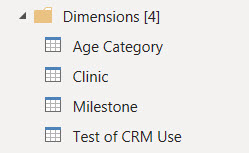
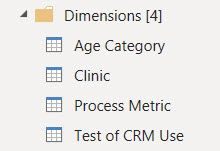
Data model improvements
Been talking to the duck

diff --git a/_layouts/default.html b/_layouts/default.html
@@ -20,7 +20,7 @@
             <div class="tocitem"><a href="#parameters-and-functions">Parameters and Functions</a></div> 
             <div class="tocitem"><a href="#data-loads">Data Loads</a></div>
             <div class="tocitem"><a href="#referral-table">Referral Table</a></div> 
-            <div class="tocitem"><a href="#referral-milestone-table">Referral Milestone Table</a></div> 
+            <div class="tocitem"><a href="#processing-time-table">Processing Time Table</a></div> 
             <div class="tocitem"><a href="#direct-secure-message-table">Direct Secure Message Table</a></div> 
             <div class="tocitem"><a href="#standard-calendar-table">Standard Calendar Table</a></div> 
             <div class="tocitem"><a href="#dimension-tables">Dimension Tables</a></div> 

diff --git a/README.md b/README.md
@@ -40,7 +40,7 @@ The **data_date** parameter is used to calculate the number of days that a refer
 The **data_path** parameter provides a single, convenient location to set the directory where the report can find the data files to load.  The *Source* step of each source table references this parameter along with one of the other parameters containing the name of the file to load.    
 
 ![Contents of the functions group](images/functions_group.jpg)    
-This report makes use of the **GetAgeCategory** function to template a column transform that is used multiple times.  It assigns a distribution grouping to the number of days leading up to a process milestone.    
+This Power Query ELT makes use of the **GetAgeCategory** function to template a column transform.  The function assigns a distribution grouping bin to the number of days leading up to a process milestone.  The function places transformation logic in an easy to find location.  It also templates a transformation that may potentially be used more than once.  Changes can be made in a single place.    
 
 ```
 = (Days as any) as any => 
@@ -54,7 +54,7 @@ let
 in
     Source
 ```    
-The number of days is the parameter and the return value is the grouping category.      
+The number of days is the parameter and the return value is the grouping bin name.    
 
 ### Data Loads
 ![Contents of the data loads group](images/data_loads_group.jpg)    
@@ -74,17 +74,13 @@ Adding calculated columns in Power Query balances out the overall time spent wai
 The number of days between milestones are also added to the table as calculated columns.  These columns are used to age referrals from the date when they are sent.  These ages are used to calculate median process timings. 
 
 ![Referral table transforms #3](images/referral_steps_3.jpg)    
-Finally the query uses the **GetAgeCategory** function to assign a category to the number of days a referral has been on hold or pending reschedule.  This creates two, separate dimension columns for each type of age category, on hold or pending reschedule.    
+Along the lines of shifting some processing work to the data refresh, the query calculates a set of extended date columns used by DAX measures in the report.  These date manipulations are present in most of the measures that are visualized.  There are useful functions and techniques in DAX to calculate time phased measures without these calculated date columns, but this would come at the cost of more complicated DAX measures and more processing when slicer values change or a new page is selected.    
 
-These two dimension columns are related in that they are a sub-class of age categories.  The **Referral Milestone** table that follows is an example where a pivoted transform can model these two, separate sub-classes of age category as the more general class of **Age Category** in a single dimension table and a single fact.   
+### Processing Time Table  
+![Processing Time query steps](images/processing_time_steps.jpg)    
+**Processing Time** is a pivoted transformation of the referral process metrics into a vertical fact table rather than a horizontal list of milestone attributes.  Doing so grants the ability to filter visuals on specific metrics and apply the same aggregation across one or more selected metrics.  Using this data structure also simplifies the use of bar charts to place different metrics side by side for comparison.    
 
-However, the measures and visualizations for days on hold and days pending reschedule are never in the same chart.  Treating these age categories as columns of a referral is convenient and also intuitive for consumers of the data model.  This ELT creates both a wide, less normalized reporting table in **Referral** and a step towards a proper star schema with milestone as a dimension in **Referral Milestone**.    
-
-### Referral Milestone Table  
-![Referral Milestone query steps](images/referral_milestone_steps.jpg)    
-**Referral Milestone** is a pivoted transformation of the referral process milestones into a vertical fact table rather than a horizontal list of milestone attributes.  Doing so grants the ability to filter visuals on specific milestones and apply the same measure across one or more selected milestones.  Using this data structure also simplifies the use of bar charts to place different milestones side by side for comparison.    
-
-Pivoting a horizontal list of milestone columns into a vertical fact table results in a simplified data model in that there are fewer dimensions playing a single role.  There is a single relationship between the dimension table and the fact table instead of multiple sub-class dimensions of age category.    
+Pivoting a horizontal list of milestone columns into a vertical fact table results in a simplified data model in that there are fewer dimensions playing a single role.  There is a single relationship between the dimension table and the fact table instead of multiple sub-classes of age category for each process metric.    
 
 The transforms:
 1. Reference the source **Referrals** table
@@ -108,7 +104,7 @@ The queries in the Dimensions group fill tables representing the pivotal dimensi
 
 Three dimensions are sourced directly from the report definition.  They are entered into the Power Query and stored as JSON: 
 - **Age Category** is a table of bins used to group referrals in timing distributions.  
-- **Milestone** is a table of referral process milestones.  
+- **Process Metric** is a table of referral process milestones and other time calculations used to monitor performance.  
 - **Test of CRM Use** is a table of measure names used to test how often a clinic uses their Clinic Referral Management system versus only using the clinic schedule book for new patients.    
 
 The **Clinic** dimension is sourced from the **Referral** table and represents the list of unique clinic names where referrals are sent.    
@@ -124,7 +120,7 @@ A DAX measure surfaces data for selected measures using a SWITCH statement on th
 
 ## Power BI Data Model 
 <a href="images/data_model.jpg"><img alt="Data model ERD" src="images/data_model.jpg?raw=true"/></a> 
-Three tables host measures that are surfaced in report visualizations.  The **Referral**, **Referral Milestone**, and **Direct Secure Message** tables contain fact values.    
+Three tables host measures that are surfaced in report visualizations.  The **Referral**, **Processing Time**, and **Direct Secure Message** tables contain fact values.    
 
 Specific data dimensions are persisted into tables due to their values existing in multiple fact tables, or their values are sorted by a column other than their description.  
 
@@ -132,11 +128,8 @@ Specific data dimensions are persisted into tables due to their values existing 
 The **Age Category** dimension table has an added column with a pre-defined sort order.  The sequence of the sort order reinforces the contextual meaning of the dimension name.  This sorting is neither based on alphabetical order nor volume of data.  This dimension's name column has its sort order overriden by the SortOrder column.     
 
 ![Clinic name slicer on report page](images/clinic_slicer.jpg)    
-This slicer is an example of filtering a dimension table versus an attribute of a table.  The **Clinic** dimension table has one-to-many relationships to both the **Referral** and **Direct Secure Message** tables.  If this slicer were connected to the Clinic column in either of those two tables it would only filter the records in the table that the slicer was connected to.  Connecting the slicer, or any filter, to the **Clinic** table filters both of the tables that it is related to.  Filtering the **Referral** table will also filter the **Referral Milestone** table by transition since **Referral** acts as a dimension in that relationship.    
+This slicer is an example of filtering a dimension table versus an attribute of a table.  The **Clinic** dimension table has one-to-many relationships to both the **Referral** and **Direct Secure Message** tables.  If this slicer were connected to the Clinic column in either of those two tables it would only filter the records in the table that the slicer was connected to.  Connecting the slicer, or any filter, to the **Clinic** table filters both of the tables that it is related to.  Filtering the **Referral** table will also filter the **Processing Time** table by transition since **Referral** acts as a dimension in that relationship.    
 
 The **Standard Calendar** table is the time dimension.  It is a table of calendar dates and attributes such as year and month that are used to filter and sort visualizations by date.    
 
 **Standard Calendar** participates in multiple relationships to both the **Referral** and **Direct Secure Message** tables.  Each of these relationships represents a role that dates play in measures.  The date when a referral is sent or the date when a referral is placed on hold, for example.  A single, more generalized date dimension creates a simpler data model compared to sub-classes of date dimensions for every role.  A single date slicer in a report filters measures by different dates using the USERELATIONSHIP function in DAX.    
-
-![Age Category relationships to Referral](images/age_category_to_referral.jpg)    
-Another dual role exists between **Age Category** and **Referral**.  This represents the days a referral is either on hold or pending reschedule.  A referral can only be in one of these two states.  The **Referral** table has both sub-classes of age category but the relationship to the **Age Category** dimension from both provides the custom sort order in visualizations.  Neither relationship can be active because it creates multiple search paths for filtering data.  Any measure used to visualize days on hold or days pending reschedule must include the USERELATIONSHIP function.    
